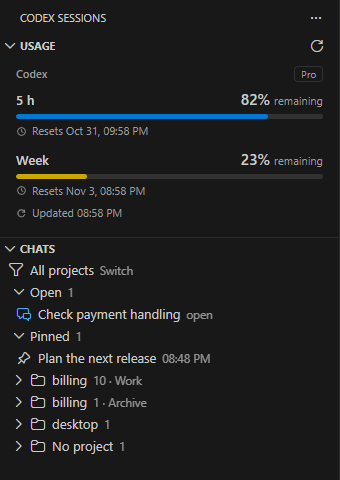
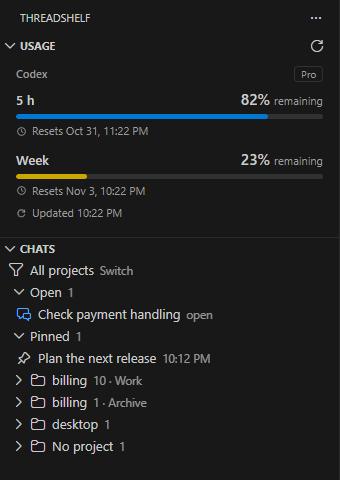
Rename the extension to ThreadShelf for Codex

diff --git a/scripts/export-public.js b/scripts/export-public.js
@@ -13,7 +13,7 @@ const files = [
   'resources/icon.png', 'resources/icon-source.svg', 'resources/session-tabs.svg',
   'resources/screenshots/sidebar-dark.png', 'resources/screenshots/sidebar-light.png',
   'docs/development.md', 'docs/release-check.md', '.vscode/launch.json', '.github/workflows/check.yml',
-  'scripts/build-icon.js', 'scripts/verify-package.js', 'scripts/export-public.js',
+  'scripts/build-icon.js', 'scripts/package.js', 'scripts/verify-package.js', 'scripts/export-public.js',
   ...['run-unit.js', 'usage.js', 'smart-titles.js', 'regressions.js', 'project-paths.js', 'i18n.js',
     'extension-id.js', 'run-windows.js', 'windows-vscode.js', 'verify-ui.mjs', 'verify-live-input.mjs',
     'review-sidebar.mjs', 'sidebar-review-vscode.js'].map(file => 'test/' + file),
@@ -28,5 +28,5 @@ for (const file of files) {
   fs.writeFileSync(output, data);
 }
 fs.writeFileSync(path.join(target, '.gitignore'), 'node_modules/\ndist/\npreviews/\n*.vsix\n*.log\n.env\n.env.*\nbackups/\n');
-fs.writeFileSync(path.join(target, 'AGENTS.md'), '# Codex Session Tabs\n\nUse English for code and comments. Check git status before editing. Read docs/development.md.\n\nRun npm test for standalone checks. Authenticated integration tests must use separate profiles and their own conversations. Live tests consume account allowance. Never publish credentials, user profiles or private conversations. Do not modify the official Codex extension or close user chats to update titles.\n');
+fs.writeFileSync(path.join(target, 'AGENTS.md'), '# ThreadShelf for Codex\n\nUse English for code and comments. Check git status before editing. Read docs/development.md.\n\nRun npm test for standalone checks. Authenticated integration tests must use separate profiles and their own conversations. Live tests consume account allowance. Never publish credentials, user profiles or private conversations. Do not modify the official Codex extension or close user chats to update titles.\n');
 console.log(`Exported ${files.length + 2} public files to ${target}`);

diff --git a/extension.js b/extension.js
@@ -70,7 +70,7 @@ function sessionItem(thread, tabs, open) {
 
 function activate(context) {
   configure(() => vscode.workspace.getConfiguration('codexSessionTabs').get('language', 'auto'), () => vscode.env.language);
-  const output = vscode.window.createOutputChannel('Codex Session Tabs');
+  const output = vscode.window.createOutputChannel('ThreadShelf');
   const log = text => output.appendLine(text);
   const withClient = async callback => {
     const client = await createClient(log);
@@ -125,7 +125,7 @@ function activate(context) {
   const generateSessionTitle = async node => {
     const active = tabs.openTabs().find(entry => entry.tab === vscode.window.tabGroups.activeTabGroup.activeTab);
     const id = node?.thread?.id || node?.id || active?.id;
-    if (!id) { vscode.window.showInformationMessage(t("Select a chat in Codex Sessions.")); return; }
+    if (!id) { vscode.window.showInformationMessage(t('Select a chat in the sidebar.')); return; }
     const generated = await vscode.window.withProgress({ location: vscode.ProgressLocation.Notification, title: t("Codex: generating a title") },
       () => titles.generate({ id, preview: node?.thread?.preview }, undefined, true));
     if (generated && !terminals.enabled) vscode.window.setStatusBarMessage(t("Title saved. The graphical tab title will update the next time you open it."), 7000);

diff --git a/scripts/package.js b/scripts/package.js
@@ -1,0 +1,12 @@
+'use strict';
+const fs = require('node:fs');
+const path = require('node:path');
+const { spawnSync } = require('node:child_process');
+const manifest = require('../package.json');
+const root = path.resolve(__dirname, '..');
+const destination = path.join(root, 'dist', `${manifest.name}-${manifest.version}-win32-x64.vsix`);
+fs.mkdirSync(path.dirname(destination), { recursive: true });
+const result = spawnSync(process.execPath, [require.resolve('@vscode/vsce/vsce'), 'package',
+  '--no-dependencies', '--target', 'win32-x64', '--out', destination], { cwd: root, stdio: 'inherit' });
+if (result.error) throw result.error;
+process.exitCode = result.status ?? 1;

diff --git a/scripts/verify-package.js b/scripts/verify-package.js
@@ -39,6 +39,7 @@ for (const file of runtime) assert.ok(files.has('extension/' + file), 'Missing r
 const packed = JSON.parse(files.get('extension/package.json'));
 assert.equal(packed.publisher, 'MrKarmannik');
 assert.equal(packed.version, manifest.version);
+assert.equal(packed.displayName, manifest.displayName);
 assert.equal(packed.preview, true);
 assert.ok(!packed.dependencies || Object.keys(packed.dependencies).length === 0);
 assert.ok(files.get('extension.vsixmanifest').toString('utf8').includes('win32-x64'));

diff --git a/app-server.js b/app-server.js
@@ -43,7 +43,7 @@ class HistoryClient {
     this.lines = readline.createInterface({ input: this.process.stdout });
     this.lines.on('line', line => this.receive(line));
     await this.request('initialize', {
-      clientInfo: { name: 'codex_session_tabs', title: 'Codex Session Tabs', version: '0.9.0' },
+      clientInfo: { name: 'codex_session_tabs', title: 'ThreadShelf for Codex', version: '0.9.1' },
       capabilities: { experimentalApi: true },
     });
     this.send({ method: 'initialized', params: {} });

diff --git a/README.ru.md b/README.ru.md
@@ -1,4 +1,4 @@
-# Codex Session Tabs
+# ThreadShelf for Codex
 
 Чаты Codex во вкладках редактора, история по проектам и лимиты аккаунта в боковой панели VS Code.
 
@@ -17,7 +17,7 @@
 
 ## Как пользоваться
 
-1. Открой папку проекта и выбери **Codex Sessions** в Activity Bar.
+1. Открой папку проекта и выбери **ThreadShelf** в Activity Bar.
 2. Нажми на чат, чтобы открыть его закреплённой вкладкой. Повторный выбор вернёт к уже открытой вкладке.
 3. Строка **Все проекты / Этот проект** над списком переключает фильтр. Проекты упорядочены по последним загруженным чатам; раскрой проект, чтобы увидеть его историю.
 
@@ -33,7 +33,7 @@
 
 ## Настройки
 
-Открой **Settings → Extensions → Codex Session Tabs** или выбери **Открыть настройки расширения** в меню списка чатов.
+Открой **Settings → Extensions → ThreadShelf for Codex** или выбери **Открыть настройки расширения** в меню списка чатов.
 
 - **Chat Mode** — графический чат по умолчанию или Codex CLI в терминальных вкладках.
 - **Language** — автоматически по VS Code, English или Русский. Язык названий команд и настроек определяет сам VS Code.

diff --git a/PRIVACY.md b/PRIVACY.md
@@ -1,13 +1,13 @@
 # Data and privacy
 
-Codex Session Tabs runs in the VS Code extension host. It has no telemetry, advertising, analytics SDK, or separate backend.
+ThreadShelf for Codex runs in the VS Code extension host. It has no telemetry, advertising, analytics SDK, or separate backend.
 
 ## Data used
 
 - The local Codex app-server supplies chat metadata: IDs, titles, previews, project paths and update times. It also supplies account usage limits.
 - VS Code extension storage holds pinned-chat metadata, closed-tab history, terminal records, manually named chat IDs and view preferences.
 - VS Code settings hold the selected language, chat mode, title model, title-generation preference and optional CLI path.
-- Diagnostic errors may appear in the **Codex Session Tabs** output channel. Review logs before sharing them: Codex process errors may contain local paths or other details.
+- Diagnostic errors may appear in the **ThreadShelf** output channel. Review logs before sharing them: Codex process errors may contain local paths or other details.
 
 The extension does not read `auth.json` directly. Authentication is handled by the installed Codex executable and official extension.
 

diff --git a/README.md b/README.md
@@ -1,4 +1,4 @@
-# Codex Session Tabs
+# ThreadShelf for Codex
 
 Open Codex chats in editor tabs. Browse history by project and check account usage from the VS Code sidebar.
 
@@ -17,7 +17,7 @@ The current compatibility check uses OpenAI Codex **26.1021.22027**. Chat tabs u
 
 ## Use
 
-1. Open a project folder and select **Codex Sessions** in the Activity Bar.
+1. Open a project folder and select **ThreadShelf** in the Activity Bar.
 2. Select a chat to open it in a pinned editor tab. Selecting it again returns to the existing tab.
 3. Click **All projects / This project** above the list to switch the history filter. Projects are ordered by their latest loaded chat; expand a project to see its chats.
 
@@ -33,7 +33,7 @@ The extension does not replace VS Code's `Ctrl+Shift+T` editor history. **Codex:
 
 ## Settings
 
-Open **Settings → Extensions → Codex Session Tabs**, or choose **Open extension settings** from the Chats menu.
+Open **Settings → Extensions → ThreadShelf for Codex**, or choose **Open extension settings** from the Chats menu.
 
 | Setting | Default | Purpose |
 | --- | --- | --- |

diff --git a/CHANGELOG.md b/CHANGELOG.md
@@ -1,5 +1,11 @@
 # Changelog
 
+## 0.9.1 — Marketplace display name
+
+- Rename the extension to **ThreadShelf for Codex** because the previous display name is already taken.
+- Keep the extension ID, settings and storage keys unchanged.
+- Derive the VSIX filename from the package version to avoid uploading an older build by mistake.
+
 ## 0.9.0 — First public preview
 
 - Publish as `MrKarmannik.codex-session-tabs` for Windows x64 and VS Code 1.111.0 or newer.

diff --git a/AGENTS.md b/AGENTS.md
@@ -1,4 +1,4 @@
-# Codex Session Tabs
+# ThreadShelf for Codex
 
 Use English for code and comments. Check git status before editing. Read docs/development.md.
 
